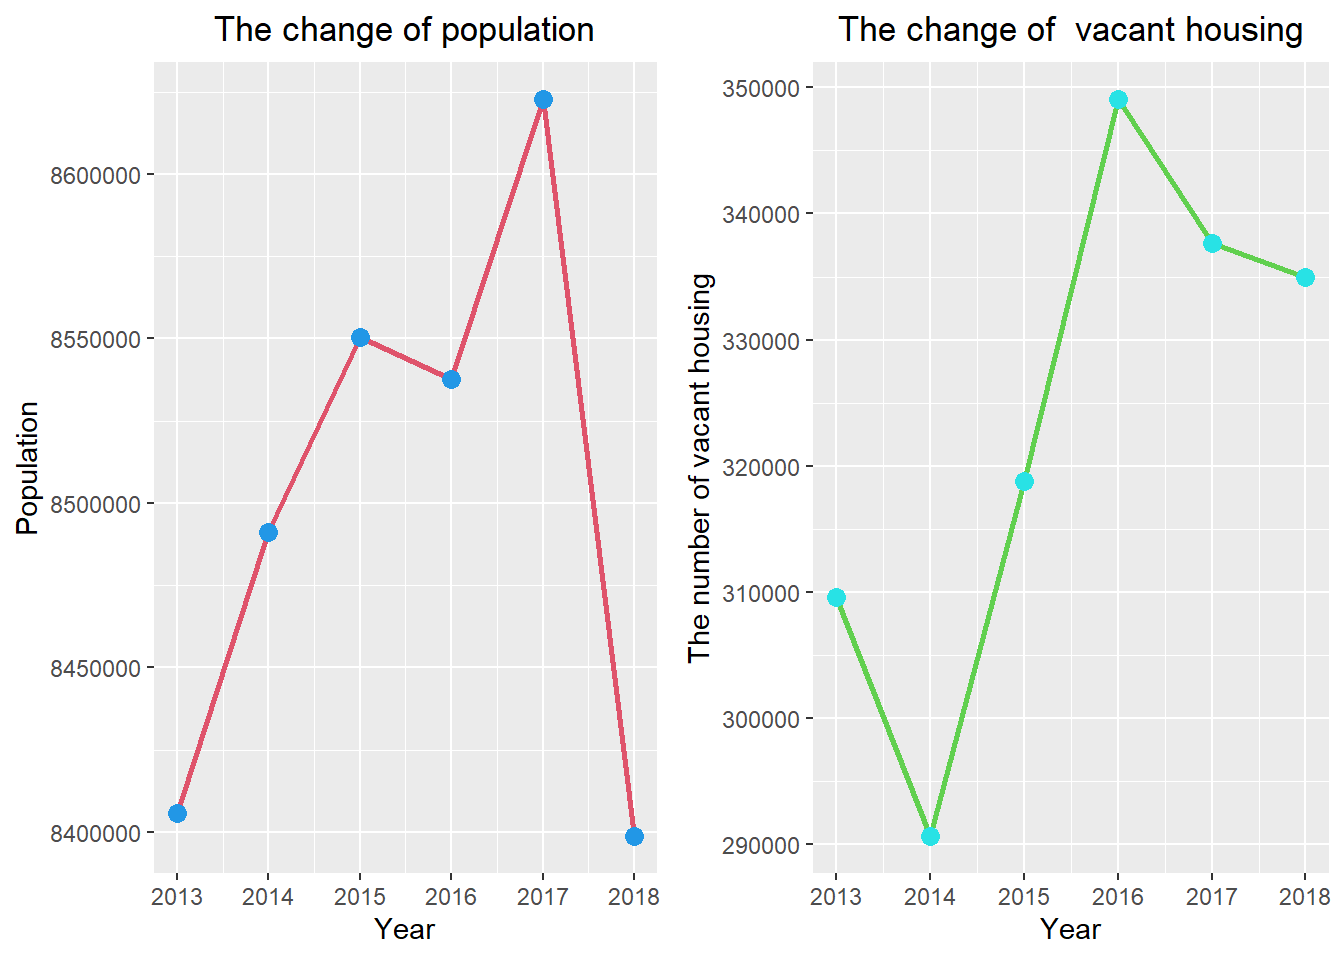
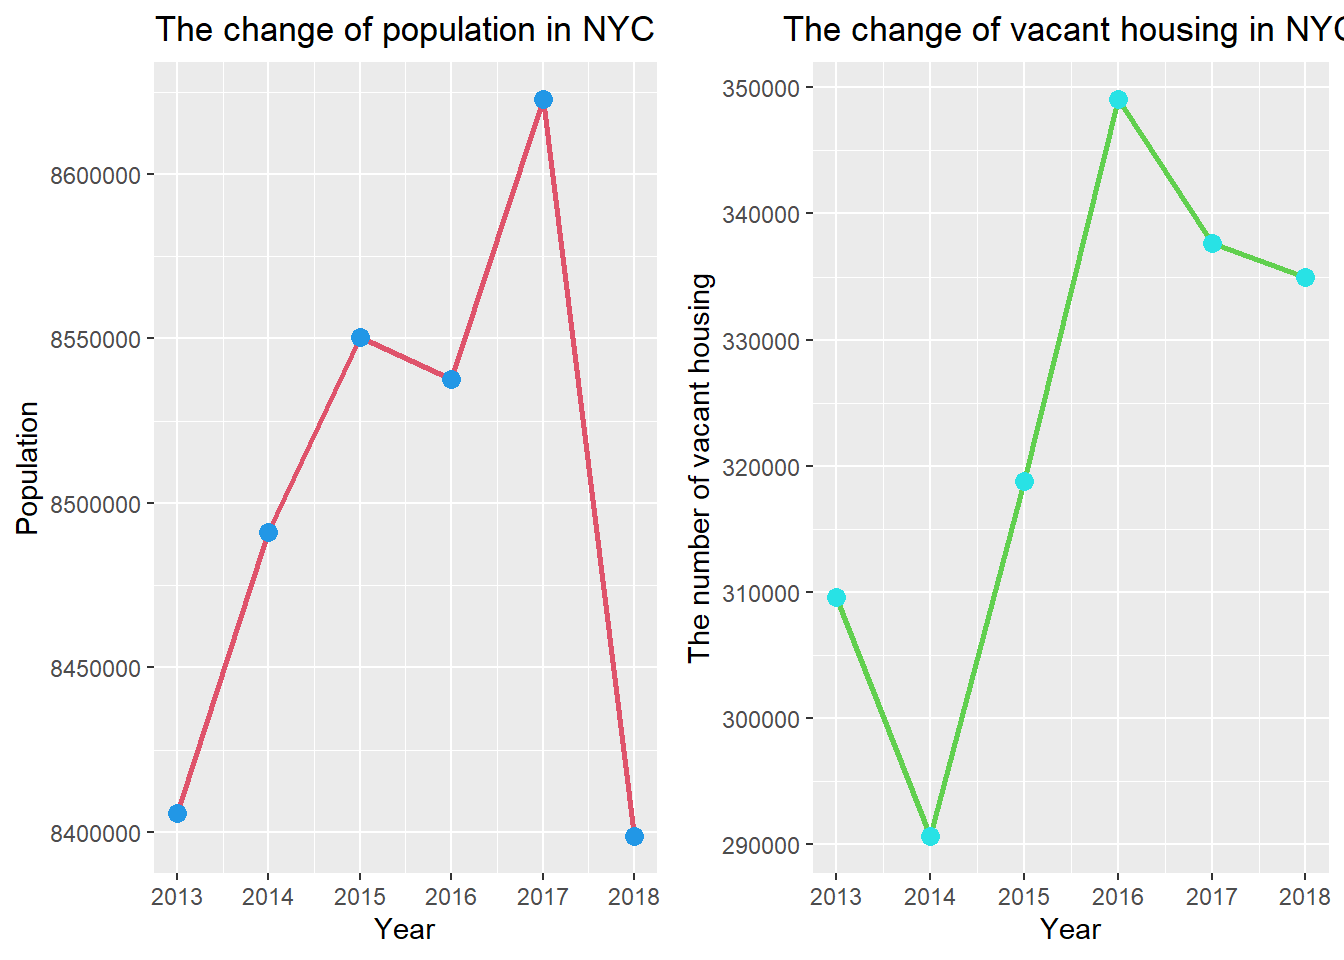
final

Changed region(s): [[0.5938, 0.0, 1.0, 0.0625], [0.125, 0.0, 0.4688, 0.0625]]

diff --git a/docs/index.html b/docs/index.html
@@ -390,24 +390,11 @@ div.tocify {
 </div>
 <div id="materials-and-methods" class="section level1">
 <h1>Materials and methods</h1>
-<p>[~ 200 words]</p>
-<p>Narrative: Clear narrative description of the data sources and methods. Includes data from at least two sources that were integrated / merged in R.</p>
-<p>Code: The code associated with the project is well organized and easy to follow. Demonstrates mastery of R graphics and functions.</p>
-<p>Data: The underlying data are publicly accessible via the web and downloaded/accessed within the Rmd script. If you want to use your own data, you must make it available on a website (e.g. Figshare) so that others are able to re-run your code.</p>
-<p>You can do bullets like this:</p>
-<ul>
-<li>The first most important thing</li>
-<li>The second most important thing</li>
-<li>The third most important thing</li>
-</ul>
-<p>You can do numbers like this:</p>
-<ol style="list-style-type: decimal">
-<li>The first most important thing</li>
-<li>The second most important thing</li>
-<li>The third most important thing</li>
-</ol>
-<p>See <a href="http://rmarkdown.rstudio.com/">http://rmarkdown.rstudio.com/</a> for all the amazing things you can do.</p>
-<p>Load any required packages in a code chunk (you may need to install some packages):</p>
+<p>Data: 1)Demographic data set of New York city from 2013-2018 2)Housing data set of New York city from 2013-2018 3)Economic datas et of New York city from 2013-2018</p>
+<p>All data sets comes from <a href="https://www1.nyc.gov/site/planning/planning-level/nyc-population/american-community-survey.page">American Community Survey (ACS) Data Tables</a> and are in csv format.</p>
+<p>The processes are descried in following steps.</p>
+<p>1.Download the data. 2.Extract attributes from the data sets and integrate them in a single data set. 3.Visualize data. 4.Correlation analysis. 5.Test hypothesis.</p>
+<p>Load any required packages in a code chunk.</p>
 <pre class="r"><code>library(tidyverse)
 library(leaflet)
 library(kableExtra)
@@ -693,16 +680,16 @@ Manhattan
 <h1>Visualization and analysis of the data</h1>
 <div id="first-hypothesis" class="section level2">
 <h2>First hypothesis</h2>
-<p>The change of the number of vacant housing and the household income of NYC</p>
+<p>The change of the population and the number of vacant housing of NYC</p>
 <pre class="r"><code>p1&lt;-nyc_whole%&gt;%
-  ggplot(aes(x=Year,y=Total_population,group=Area))+geom_line(size=1,color=2)+geom_point(size=3,color=4)+ylab(&#39;Population&#39;)+labs(title = &#39;The change of population&#39;)+
+  ggplot(aes(x=Year,y=Total_population,group=Area))+geom_line(size=1,color=2)+geom_point(size=3,color=4)+ylab(&#39;Population&#39;)+labs(title = &#39;The change of population in NYC&#39;)+
   theme(plot.title = element_text(hjust = 0.5))
 p2&lt;-nyc_whole%&gt;%
-  ggplot(aes(x=Year,y=Vacant_housing,group=Area))+geom_line(size=1,color=3)+geom_point(size=3,color=5)+ylab(&#39;The number of vacant housing&#39;)+labs(title = &#39;The change of  vacant housing&#39;)+
+  ggplot(aes(x=Year,y=Vacant_housing,group=Area))+geom_line(size=1,color=3)+geom_point(size=3,color=5)+ylab(&#39;The number of vacant housing&#39;)+labs(title = &#39;The change of vacant housing in NYC&#39;)+
   theme(plot.title = element_text(hjust = 0.5))
 plot_grid(p1, p2)</code></pre>
 <p><img src="index_files/figure-html/unnamed-chunk-4-1.png" width="1526" height="428" /></p>
-<p>The change of population and number of vacant housing of each county</p>
+<p>The change of population and the number of vacant housing of each county</p>
 <pre class="r"><code>p3&lt;-each_county%&gt;%
   ggplot(aes(x=Year,y=Total_population,group=Area))+geom_line(size=1,color=2)+geom_point(size=3,color=4)+ylab(&#39;Population&#39;)+labs(title = &#39;The change of \n population in each county&#39;)+facet_wrap(~Area,scales=&quot;free_y&quot;,nrow=5,as.table = TRUE)+
   theme(plot.title = element_text(hjust = 0.5))
@@ -715,10 +702,10 @@ plot_grid(p3, p4)</code></pre>
 <h2>Second hypothesis</h2>
 <p>The change of median housing value and median household income of NYC</p>
 <pre class="r"><code>p5&lt;-nyc_whole%&gt;%
-  ggplot(aes(x=Year,y=Median_value,group=Area))+geom_line(size=1,color=2)+geom_point(size=3,color=4)+ylab(&#39;Median value(dollors)&#39;)+labs(title = &#39;The change of \n median value of housing&#39;)+
+  ggplot(aes(x=Year,y=Median_value,group=Area))+geom_line(size=1,color=2)+geom_point(size=3,color=4)+ylab(&#39;Median value(dollors)&#39;)+labs(title = &#39;The change of \n median value of housing in NYC&#39;)+
   theme(plot.title = element_text(hjust = 0.5))
 p6&lt;-nyc_whole%&gt;%
-  ggplot(aes(x=Year,y=Median_income,group=Area))+geom_line(size=1,color=3)+geom_point(size=3,color=5)+ylab(&#39;Median household income(dollors)&#39;)+labs(title = &#39;The change of \n  median household income&#39;)+
+  ggplot(aes(x=Year,y=Median_income,group=Area))+geom_line(size=1,color=3)+geom_point(size=3,color=5)+ylab(&#39;Median household income(dollors)&#39;)+labs(title = &#39;The change of \n  median household income in NYC&#39;)+
   theme(plot.title = element_text(hjust = 0.5))
 plot_grid(p5, p6)</code></pre>
 <p><img src="index_files/figure-html/unnamed-chunk-6-1.png" width="1526" height="428" /></p>
@@ -735,10 +722,10 @@ plot_grid(p7, p8)</code></pre>
 <h2>The third hypothesis</h2>
 <p>The change of population and median housing value of NYC</p>
 <pre class="r"><code>p9&lt;-nyc_whole%&gt;%
-  ggplot(aes(x=Year,y=Total_population,group=Area))+geom_line(size=1,color=2)+geom_point(size=3,color=4)+ylab(&#39;Median value(dollors)&#39;)+labs(title = &#39;The change of \n population&#39;)+
+  ggplot(aes(x=Year,y=Total_population,group=Area))+geom_line(size=1,color=2)+geom_point(size=3,color=4)+ylab(&#39;Median value(dollors)&#39;)+labs(title = &#39;The change of \n population in NYC&#39;)+
   theme(plot.title = element_text(hjust = 0.5))
 p10&lt;-nyc_whole%&gt;%
-  ggplot(aes(x=Year,y=Median_value,group=Area))+geom_line(size=1,color=3)+geom_point(size=3,color=5)+ylab(&#39;Median value(dollors)&#39;)+labs(title = &#39;The change of \n median value of housing&#39;)+
+  ggplot(aes(x=Year,y=Median_value,group=Area))+geom_line(size=1,color=3)+geom_point(size=3,color=5)+ylab(&#39;Median value(dollors)&#39;)+labs(title = &#39;The change of \n median value of housing in NYC&#39;)+
   theme(plot.title = element_text(hjust = 0.5))
 plot_grid(p9, p10)</code></pre>
 <p><img src="index_files/figure-html/unnamed-chunk-8-1.png" width="1526" height="428" /></p>
@@ -750,21 +737,18 @@ p12&lt;-each_county%&gt;%ggplot(aes(x=Year,y=Median_value,group=Area))+geom_line
   theme(plot.title = element_text(hjust = 0.5))
 plot_grid(p11, p12)</code></pre>
 <p><img src="index_files/figure-html/unnamed-chunk-9-1.png" width="1526" height="728" /></p>
-<p>The result of Pearson Correlation Coefficient</p>
 </div>
 </div>
 <div id="results" class="section level1">
 <h1>Results</h1>
-<p>[~200 words]</p>
-<p>Tables and figures (maps and other graphics) are carefully planned to convey the results of your analysis. Intense exploration and evidence of many trials and failures. The author looked at the data in many different ways before coming to the final presentation of the data.</p>
-<p>Show tables, plots, etc. and describe them.</p>
-<pre class="r"><code>population_vacant&lt;-data.frame(&#39;Area&#39;=c(&quot;New York City&quot;,&quot;Bronx&quot;,&quot;Brooklyn&quot;,&quot;Manhattan&quot;,&quot;Queens&quot;,&quot;Staten Island&quot;),&#39;Pearson correlation coefficient&#39;=c(nyc_value_income,bx_value_income,bn_value_income,mh_value_income,q_value_income,si_value_income))
-population_vacant%&gt;%kable(digits=2,align=&quot;c&quot;,caption = &quot;The pearson correlation cofficient between total of population and the number of vacant housing&quot;,font_size = 17)%&gt;% 
+<p>We use Pearson correlation cofficient to quantify the correlation between the two variables. When Pearson correlation cofficient approaches 1, it means that the two variables have a stronger positive correlation. When Pearson correlation cofficient approaches -1, it means that the two variables have a stronger negative correlation. When Pearson correlation cofficient approaches 0, that indicates the correlation between the two variables is weak.</p>
+<pre class="r"><code>population_vacant&lt;-data.frame(&#39;Area&#39;=c(&quot;New York City&quot;,&quot;Bronx&quot;,&quot;Brooklyn&quot;,&quot;Manhattan&quot;,&quot;Queens&quot;,&quot;Staten Island&quot;),&#39;Pearson correlation coefficient&#39;=c(nyc_pop_vacant,bx_pop_vacant,bn_pop_vacant,mh_pop_vacant,q_pop_vacant,si_pop_vacant))
+population_vacant%&gt;%kable(digits=2,align=&quot;c&quot;,caption = &quot;The pearson correlation cofficient between total of population and the number of vacant housing.&quot;,font_size = 17)%&gt;% 
   kable_styling(bootstrap_options = 
                   c(&quot;striped&quot;, &quot;hover&quot;, &quot;condensed&quot;, &quot;responsive&quot;))</code></pre>
 <table class="table table-striped table-hover table-condensed table-responsive" style="margin-left: auto; margin-right: auto;">
 <caption>
-The pearson correlation cofficient between total of population and the number of vacant housing
+The pearson correlation cofficient between total of population and the number of vacant housing.
 </caption>
 <thead>
 <tr>
@@ -782,7 +766,7 @@ Pearson.correlation.coefficient
 New York City
 </td>
 <td style="text-align:center;">
-0.62
+0.31
 </td>
 </tr>
 <tr>
@@ -790,7 +774,7 @@ New York City
 Bronx
 </td>
 <td style="text-align:center;">
-0.44
+-0.70
 </td>
 </tr>
 <tr>
@@ -798,7 +782,7 @@ Bronx
 Brooklyn
 </td>
 <td style="text-align:center;">
-0.63
+0.56
 </td>
 </tr>
 <tr>
@@ -806,7 +790,7 @@ Brooklyn
 Manhattan
 </td>
 <td style="text-align:center;">
-0.40
+-0.18
 </td>
 </tr>
 <tr>
@@ -814,7 +798,7 @@ Manhattan
 Queens
 </td>
 <td style="text-align:center;">
-0.76
+0.51
 </td>
 </tr>
 <tr>
@@ -822,18 +806,18 @@ Queens
 Staten Island
 </td>
 <td style="text-align:center;">
-0.64
+0.86
 </td>
 </tr>
 </tbody>
 </table>
-<pre class="r"><code>value_income&lt;-data.frame(&#39;Area&#39;=c(&quot;New York City&quot;,&quot;Bronx&quot;,&quot;Brooklyn&quot;,&quot;Manhattan&quot;,&quot;Queens&quot;,&quot;Staten Island&quot;),&#39;Pearson correlation coefficient&#39;=c(nyc_pop_vacant,bx_pop_vacant,bn_pop_vacant,mh_pop_vacant,q_pop_vacant,si_pop_vacant))
-population_vacant%&gt;%kable(digits=2,align=&quot;c&quot;,caption = &quot;The pearson correlation cofficient between total of population and the number of vacant housing&quot;,font_size = 17)%&gt;% 
+<pre class="r"><code>value_income&lt;-data.frame(&#39;Area&#39;=c(&quot;New York City&quot;,&quot;Bronx&quot;,&quot;Brooklyn&quot;,&quot;Manhattan&quot;,&quot;Queens&quot;,&quot;Staten Island&quot;),&#39;Pearson correlation coefficient&#39;=c(nyc_value_income,bx_value_income,bn_value_income,mh_value_income,q_value_income,si_value_income))
+value_income%&gt;%kable(digits=2,align=&quot;c&quot;,caption = &quot;The pearson correlation cofficient between the median housing value and the median household income.&quot;,font_size = 17)%&gt;% 
   kable_styling(bootstrap_options = 
                   c(&quot;striped&quot;, &quot;hover&quot;, &quot;condensed&quot;, &quot;responsive&quot;))</code></pre>
 <table class="table table-striped table-hover table-condensed table-responsive" style="margin-left: auto; margin-right: auto;">
 <caption>
-The pearson correlation cofficient between total of population and the number of vacant housing
+The pearson correlation cofficient between the median housing value and the median household income.
 </caption>
 <thead>
 <tr>
@@ -897,12 +881,12 @@ Staten Island
 </tbody>
 </table>
 <pre class="r"><code>pop_value&lt;-data.frame(&#39;Area&#39;=c(&quot;New York City&quot;,&quot;Bronx&quot;,&quot;Brooklyn&quot;,&quot;Manhattan&quot;,&quot;Queens&quot;,&quot;Staten Island&quot;),&#39;Pearson correlation coefficient&#39;=c(nyc_pop_value,bx_pop_value,bn_pop_value,mh_pop_value,q_pop_value,si_pop_value))
-population_vacant%&gt;%kable(digits=2,align=&quot;c&quot;,caption = &quot;The pearson correlation cofficient between total of population and the number of vacant housing&quot;,font_size = 17)%&gt;% 
+pop_value%&gt;%kable(digits=2,align=&quot;c&quot;,caption = &quot;The pearson correlation cofficient between total of population and the median housing value.&quot;,font_size = 17)%&gt;% 
   kable_styling(bootstrap_options = 
                   c(&quot;striped&quot;, &quot;hover&quot;, &quot;condensed&quot;, &quot;responsive&quot;))</code></pre>
 <table class="table table-striped table-hover table-condensed table-responsive" style="margin-left: auto; margin-right: auto;">
 <caption>
-The pearson correlation cofficient between total of population and the number of vacant housing
+The pearson correlation cofficient between total of population and the median housing value.
 </caption>
 <thead>
 <tr>
@@ -920,7 +904,7 @@ Pearson.correlation.coefficient
 New York City
 </td>
 <td style="text-align:center;">
-0.62
+0.15
 </td>
 </tr>
 <tr>
@@ -928,7 +912,7 @@ New York City
 Bronx
 </td>
 <td style="text-align:center;">
-0.44
+0.03
 </td>
 </tr>
 <tr>
@@ -936,7 +920,7 @@ Bronx
 Brooklyn
 </td>
 <td style="text-align:center;">
-0.63
+-0.02
 </td>
 </tr>
 <tr>
@@ -944,7 +928,7 @@ Brooklyn
 Manhattan
 </td>
 <td style="text-align:center;">
-0.40
+0.29
 </td>
 </tr>
 <tr>
@@ -952,7 +936,7 @@ Manhattan
 Queens
 </td>
 <td style="text-align:center;">
-0.76
+-0.03
 </td>
 </tr>
 <tr>
@@ -960,7 +944,7 @@ Queens
 Staten Island
 </td>
 <td style="text-align:center;">
-0.64
+0.81
 </td>
 </tr>
 </tbody>
@@ -968,12 +952,11 @@ Staten Island
 </div>
 <div id="conclusions" class="section level1">
 <h1>Conclusions</h1>
-<p>[~200 words]</p>
-<p>Clear summary adequately describing the results and putting them in context. Discussion of further questions and ways to continue investigation.</p>
+<p>As the result of polts and tables, we can test the hypotheses.In the first hypothesis, we assume the amount of urban population change is negatively related to the number of vacant houses.From the study results,only the bronx county can fulfill this assumption. In the second hypothesis, we assume the value of the house is positively correlated with the income of the household.This assumption is basically true. In the third hypothesis, we can only find the amount of changing in urban population is positively correlated with house value in Manhattan and Staten Island.</p>
 </div>
 <div id="references" class="section level1">
 <h1>References</h1>
-<p>All sources are cited in a consistent manner</p>
+<p><a href="http://www.sthda.com/english/wiki/correlation-test-between-two-variables-in-r" class="uri">http://www.sthda.com/english/wiki/correlation-test-between-two-variables-in-r</a>.  <a href="https://www1.nyc.gov/site/planning/index.page" class="uri">https://www1.nyc.gov/site/planning/index.page</a>.</p>
 </div>
 
 <!-- give the footer some space -->
